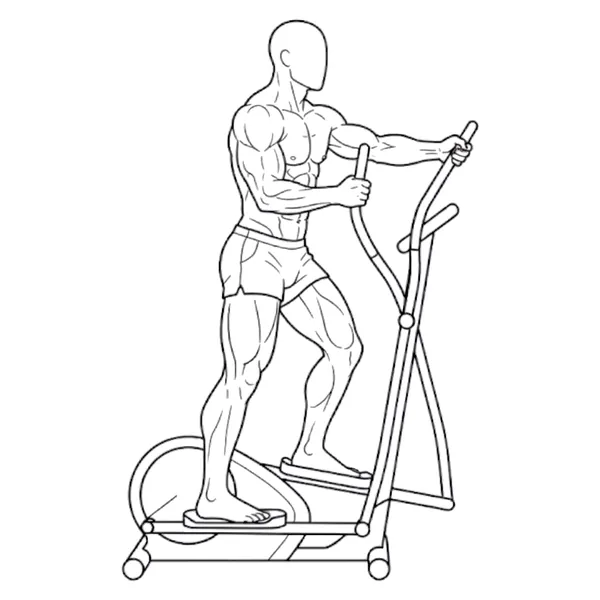
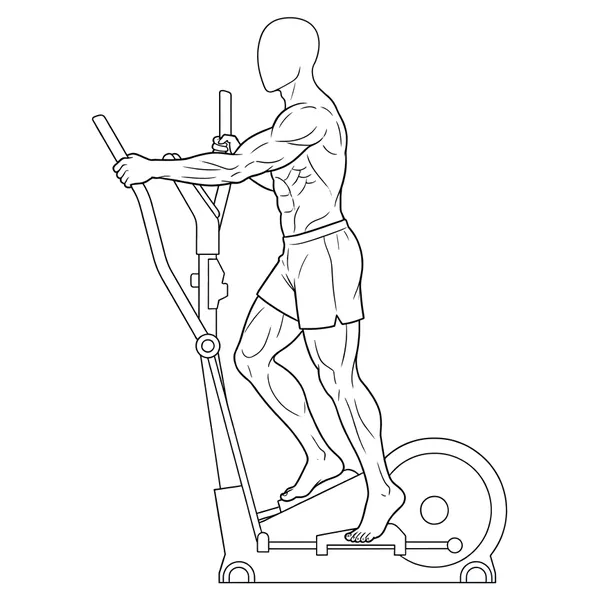
0.64.6: dominadas pronas, supinas y neutras, fondos de triceps, laterales y eliptica
- Dominadas pronas colgando del todo (y negativas), supinas de frente con agarre
  estrecho y Dominadas neutras nuevas en el catalogo (de perfil, asas paralelas).
- Fondos de triceps con las manos y las barras quietas.
- Elevaciones laterales rehechas enteras y eliptica con foto de modelo (quieta).
- Almacen de imagenes entreno-imagenes-43.

Changed region(s): [[0.15, 0.03, 0.87, 0.99]]

diff --git a/web/js/catalogo.js b/web/js/catalogo.js
@@ -77,6 +77,7 @@ export const CATALOGO = [
   // --- Tirón --------------------------------------------------------------
   ej('Dominadas', 'tirón', 'barra fija', ['dorsal'], ['biceps', 'antebrazoFlexor'], corporal),
   ej('Dominadas supinas', 'tirón', 'barra fija', ['dorsal', 'biceps'], ['antebrazoFlexor'], corporal),
+  ej('Dominadas neutras', 'tirón', 'barra fija', ['dorsal'], ['biceps', 'antebrazoFlexor'], corporal),
   ej('Dominadas asistidas', 'tirón', 'máquina', ['dorsal'], ['biceps', 'antebrazoFlexor'], { carga: 'asistida' }),
   ej('Dominadas con lastre', 'tirón', 'barra fija', ['dorsal'], ['biceps', 'antebrazoFlexor'], corporal),
   ej('Dominadas negativas', 'tirón', 'barra fija', ['dorsal'], ['biceps', 'antebrazoFlexor'], corporal),

diff --git a/web/sw.js b/web/sw.js
@@ -7,12 +7,12 @@
 // Solo se ocupa del CÓDIGO de la app. Los datos del usuario nunca pasan por
 // aquí: viven en el dispositivo (IndexedDB) y en su Google Drive.
 
-const VERSION = '0.64.5';
+const VERSION = '0.64.6';
 const CACHE = `entreno-${VERSION}`;
 // Las imágenes van en un almacén aparte que NO se borra al actualizar la app:
 // así se ven sin conexión aunque haya salido una versión nueva.
 // Si cambian las imágenes, se sube el número y los móviles bajan las nuevas.
-const CACHE_IMAGENES = 'entreno-imagenes-42';  // el mismo nombre en app.js (guardarImagenesParaSinConexion)
+const CACHE_IMAGENES = 'entreno-imagenes-43';  // el mismo nombre en app.js (guardarImagenesParaSinConexion)
 
 const ARCHIVOS = [
   './',

diff --git a/web/js/app.js b/web/js/app.js
@@ -236,7 +236,7 @@ async function guardarImagenesParaSinConexion() {
     const capas = Object.entries(MUSCULOS).flatMap(([clave, m]) => m.vistas.map((v) => archivoCapa(clave, v)));
     const cuerpo = ['imagenes/musculos/cuerpo-delante.svg', 'imagenes/musculos/cuerpo-detras.svg'];
     // El mismo nombre que CACHE_IMAGENES en sw.js: si no, el service worker lo borra.
-    const cache = await caches.open('entreno-imagenes-42');
+    const cache = await caches.open('entreno-imagenes-43');
     for (const ruta of [...cuerpo, ...capas, ...mios]) {
       if (!(await cache.match(ruta, { ignoreSearch: true }))) {
         const r = await fetch(ruta).catch(() => null);

diff --git a/web/js/version.js b/web/js/version.js
@@ -1,3 +1,3 @@
 // Versión del código de la app. Se sube en cada publicación y debe coincidir
 // con VERSION en sw.js, que es lo que hace que los móviles se actualicen.
-export const VERSION_APP = '0.64.5';
+export const VERSION_APP = '0.64.6';

diff --git a/herramientas/reencajar.py b/herramientas/reencajar.py
@@ -43,6 +43,11 @@ REENCAJAR = {
     "puente-por-fases": {"ia": True, "zona": (0.6, 0.75, 1.0, 1.0)},           # los pies
     "mountain-climbers": {"ia": True, "zona": (0.72, 0.55, 1.0, 0.97)},        # las manos y los brazos
     "dominadas-supinas": {"ia": True, "zona": (0.0, 0.0, 1.0, 0.1)},          # la barra y las manos
+    "dominada": {"ia": True, "zona": (160, 20, 230, 85), "mover": (-15, 0)},   # la mano izquierda en la barra (26-10)
+    "dominadas-negativas": {"ia": True, "zona": (175, 20, 240, 85), "mover": (8, 0)},
+    "dominadas-neutras": {"ia": True},
+    "elevaciones-laterales": {"ia": True, "zona": (0.0, 0.6, 1.0, 1.0), "fijo_desde": 0.58},  # rehecha entera (26-10): las piernas quietas
+    "fondos-de-triceps": {"ia": True, "zona": (0.5, 0.45, 1.0, 1.0)},         # las patas y la base de las paralelas (26-10)
     "hip-thrust": {"ia": True, "zona": (0.0, 0.45, 0.35, 1.0)},               # el banco
     "face-pull": {"ia": True, "zona": (0.75, 0.0, 1.0, 1.0)},  # la columna (con las piernas fijas el muñeco se partía por la cintura)
     "elevacion-de-gemelos-completo": {"ia": True, "zona": (0.0, 0.8, 1.0, 1.0),    # el escalón

diff --git a/herramientas/imagenes_ia.py b/herramientas/imagenes_ia.py
@@ -359,7 +359,9 @@ def ejercicios_de(entrada):
 # Dibujos que se quedan como están (Dan eligió la versión de antes en una revisión): no se rehacen.
 CONGELADOS = {"cruces-en-polea-completo",
               "estiramiento-de-pectoral-en-el-marco-de-la-puerta",  # versiones que Dan prefiere o retocadas a mano (23-10)
-              "pajaro-a-una-mano"}  # el banco de la segunda postura copiado de la primera (26-10)
+              "pajaro-a-una-mano",  # el banco de la segunda postura copiado de la primera (26-10)
+              "fondos-de-triceps",  # nuevo (26-10): las patas, la base y la punta de las barras copiadas de la primera
+              "dominadas-neutras"}  # el asa de la segunda postura alargada como la de la primera (26-10)
 
 QUIETOS = {"Plancha lateral": "imagenes/ejercicios/anim/plancha-lateral-quieta.webp"}
 

diff --git a/imagenes-ia/cola.md b/imagenes-ia/cola.md
@@ -166,3 +166,15 @@ petición (el pez levantaba la cabeza; la goblet sale «de huevo», que lo decid
       Probar con una lámina de modelo con las dos posturas, o con ChatGPT.
 - [ ] Unos 40 ejercicios siguen con muñeco y sin dibujo de IA (tibiales, Copenhague, press Arnold, movilidad…): no
       entraron en la cola «más músculo».
+
+# 26-10-2026, sus notas de la mañana (0.64.6)
+- [x] Fondos de tríceps: rehechos con Gemini; las manos, las barras, las patas y la base quietas (copiadas de la primera
+      postura, `CONGELADOS`).
+- [x] Dominadas pronas: colgado del todo (una figura sola con Gemini, juntada con la de arriba a la misma escala por las
+      manos) y negativas sacadas de ella.
+- [x] Dominadas supinas: de frente, agarre estrecho con las palmas hacia la cara, colgado del todo; sin postes.
+- [x] Dominadas neutras (ejercicio nuevo en el catálogo): de perfil, asas paralelas; el asa de la segunda postura
+      alargada como la de la primera.
+- [x] Elevaciones laterales: rehechas enteras (en T, sin curl, piernas quietas).
+- [x] Elíptica: con la foto de modelo que mandó Dan; quieta (una sola postura).
+- Lo de antes, para comparar, en `imagenes-ia/antes-26-10/` (fuera de Git).

diff --git a/CLAUDE.md b/CLAUDE.md
@@ -1371,3 +1371,8 @@ Solo se tocaron plantillas.js, version.js, sw.js y este archivo.
   damero bajo la barra de arriba); «Pixel art», el cielo, la tierra y la hierba de Owlboy con el lila de Axiom Verge;
   «Arcano», piedra ocre, pergamino, oro y runas turquesa que brillan (carta modernista y mago del mosaico). Terminal:
   título con serifa y brillo como el cartel de Matrix. En pixel y terminal, la barra de abajo con letra normal (no cabía).
+- 0.64.6 (26-10-2026): sus notas de los dibujos. Fondos de tríceps sin manos que se mueven, dominadas pronas que cuelgan
+  del todo (y negativas), supinas de frente con agarre estrecho, «Dominadas neutras» nuevas en el catálogo (de perfil,
+  asas paralelas), elevaciones laterales rehechas enteras y elíptica con su foto de modelo (quieta). Gemini no cambia la
+  postura editando: la postura que falta se pide en conversación nueva con solo la referencia de estilo, o las dos en
+  una lámina. Lo anterior, en `imagenes-ia/antes-26-10/` (fuera de Git). Almacén `entreno-imagenes-43`.
